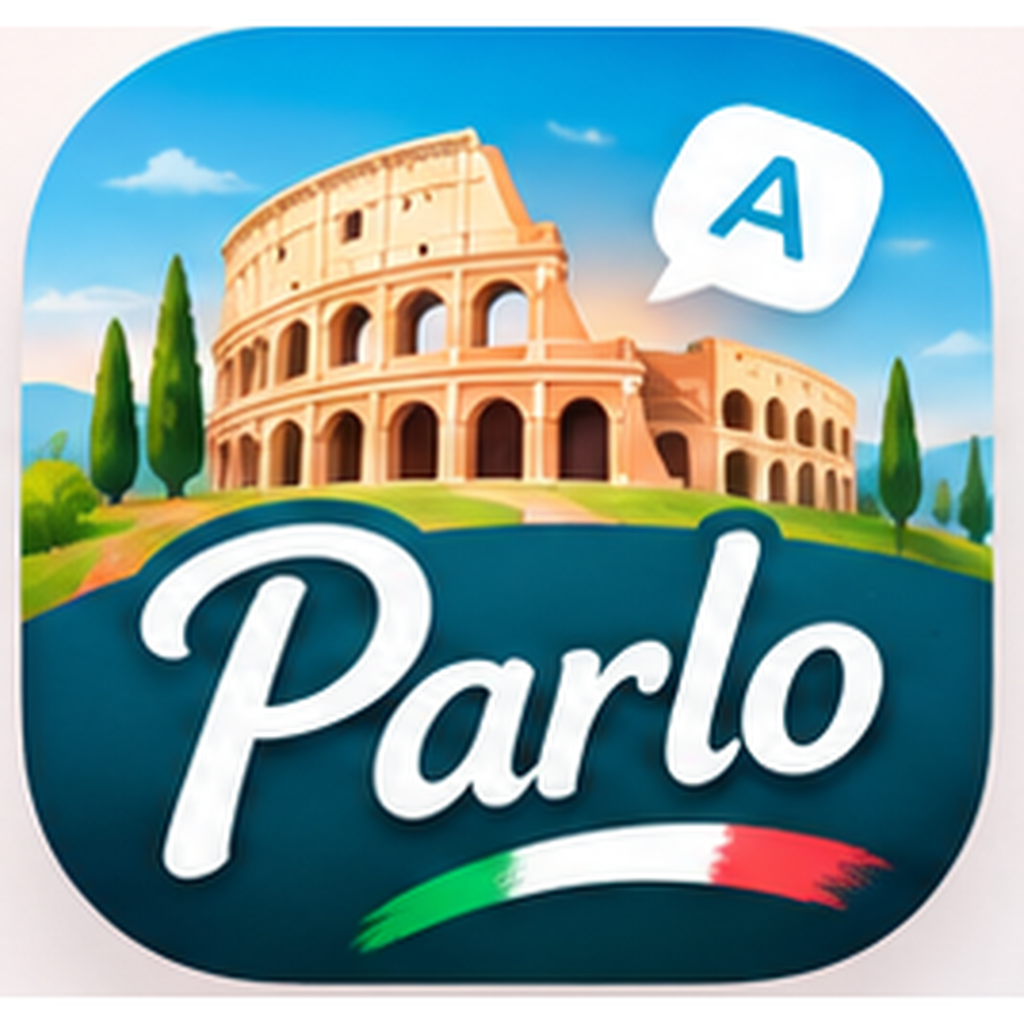
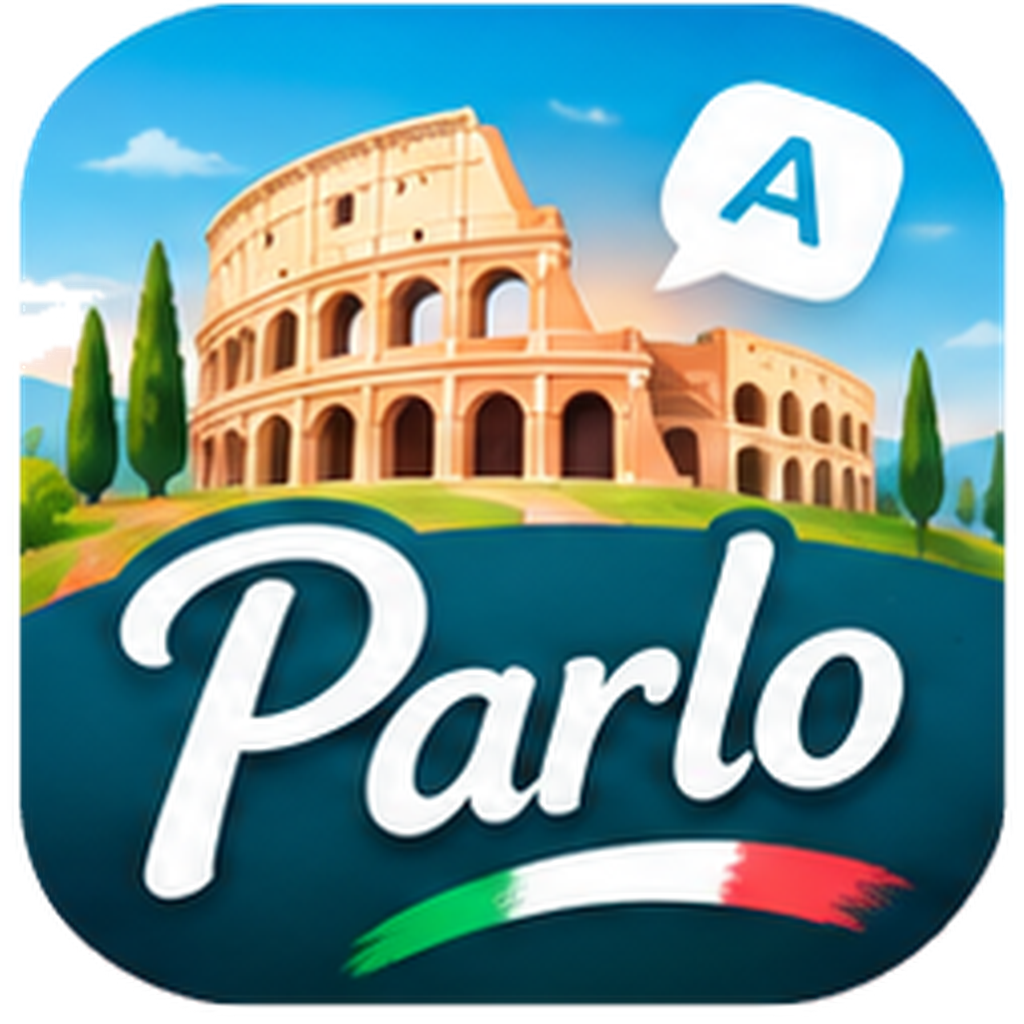
Add files via upload

diff --git a/index.html b/index.html
@@ -1,7 +1,7 @@
 <!DOCTYPE html>
 <html lang="en"><head><meta charset="utf-8">
 <meta name="viewport" content="width=device-width,initial-scale=1,viewport-fit=cover,user-scalable=no">
-<meta name="theme-color" content="#0B6B3A"><link rel="manifest" href="./manifest.webmanifest"><link rel="icon" type="image/png" href="./icons/icon-192.png"><link rel="apple-touch-icon" href="./icons/icon-192.png"><title>Parlo · Learn Italian</title>
+<meta name="theme-color" content="#0B6B3A"><link rel="icon" type="image/png" href="./icons/favicon.png"><link rel="apple-touch-icon" href="./icons/icon-192.png"><link rel="manifest" href="./manifest.webmanifest"><link rel="icon" type="image/png" href="./icons/icon-192.png"><link rel="apple-touch-icon" href="./icons/icon-192.png"><title>Parlo · Learn Italian</title>
 <style>
 :root{--bg:#FBF5EA;--bg2:#F1E7D3;--card:#fff;--ink:#241B14;--mut:#8C7C6A;--g:#0E8A4B;--gd:#096B3A;--gl:#e3f5ea;--r:#E4382F;--rd:#B82820;--y:#FFC83D;--yd:#D9A21B;--b:#3D8BFF;--line:#E9DCC3;--sh:0 0.375rem 0 rgba(36,27,20,.07),0 0.875rem 1.875rem rgba(36,27,20,.07);--hd1:#0B6B3A;--hd2:#18a35a}
 body.night{--bg:#14111C;--bg2:#1E1A2B;--card:#262136;--ink:#F6EFE3;--mut:#A79DB8;--line:#3A334F;--sh:0 0.375rem 0 rgba(0,0,0,.35);--gl:#1d3a2b}
@@ -5660,4 +5660,60 @@ parlo12Styles.textContent=`
 #top{min-width:0}#top>*{min-width:0}#top button{flex-shrink:0}
 @media(max-width:450px){#top>.chip:not(button){display:none!important}#top .logo{flex:none}#top .sp{flex:1;min-width:0}#top{gap:.35rem}}
 `;document.head.appendChild(parlo12Styles);
+
+
+/* Public 1.3 — compact search, restored streak, scoped audio feedback, card separation. */
+const p13Style=document.createElement('style');
+p13Style.textContent=`
+/* Keep the streak visible even on mobile; remove the old language flag from the header. */
+@media(max-width:450px){#top>.chip.p13-streak{display:inline-flex!important;align-items:center;gap:.15rem;padding:.27rem .35rem!important;font-size:.75rem!important}#top .logo{font-size:.92rem!important}#top .logo i{width:1.6rem!important;height:1.6rem!important}#top .p11-search-trigger{width:1.95rem;height:1.95rem}#top .chip.ib{padding:.25rem!important}}
+/* Search category labels must be centered and not clipped by inheritance. */
+.p11-search-filters{align-items:center;gap:.42rem;min-height:3.1rem;padding-top:.25rem!important;padding-bottom:.45rem!important;flex-shrink:0}
+.p11-search-filters button{box-sizing:border-box;display:inline-flex!important;align-items:center!important;justify-content:center!important;text-align:center!important;line-height:1.1!important;white-space:nowrap;min-height:2rem;padding:.42rem .82rem!important;font-size:.75rem!important;font-weight:800!important;flex:0 0 auto!important;vertical-align:middle}
+.p11-search-field input:focus-visible{outline:0!important;box-shadow:none!important}
+.p11-search-field:focus-within{box-shadow:0 0 0 3px color-mix(in srgb,var(--g) 17%,transparent)}
+.p11-results-head{align-items:center;gap:.65rem;min-width:0}.p11-results-head>*{min-width:0}
+/* The hero shadow should fall behind other cards instead of over them. */
+#main .view>.hero{isolation:isolate;z-index:0;margin-bottom:1.15rem!important}
+#main .view>.hero~.p221-quick,#main .view>.hero~.pl-shortcuts,#main .view>.hero~.pl-tools,#main .view>.hero~.card,#main .view>.hero~.mg{position:relative;z-index:1}
+#main .view>.hero + .pl-shortcuts,#main .view>.hero + .pl-tools,#main .view>.hero + .p221-quick{margin-top:.6rem!important}
+/* Grammar Guides: only the selected speaker icon moves, never its full example card. */
+#main .view .card .opt.p13-grammar-audio{animation:none!important;transform:none!important;transition:background-color .15s,border-color .15s!important}
+#main .view .card .opt.p13-grammar-audio svg.p13-audio-playing{animation:p13-speaker-pop .65s ease-in-out 1!important;color:var(--g);transform-origin:center}
+@keyframes p13-speaker-pop{0%,100%{transform:scale(1)}45%{transform:scale(1.22)}}
+@media(prefers-reduced-motion:reduce){#main .view .card .opt.p13-grammar-audio svg.p13-audio-playing{animation:none!important}}
+`;document.head.appendChild(p13Style);
+// The prior layout intentionally hid all non-button chips on phones. Reintroduce just the streak.
+const p13Topbar=topbar;
+topbar=function(){p13Topbar.apply(this,arguments);const t=document.getElementById('top');if(!t)return;
+  const language=t.querySelector('button[onclick="langSheet()"]');if(language)language.remove();
+  const flame=[...t.querySelectorAll('.chip')].find(el=>!el.matches('button')&&!!el.querySelector('svg'));
+  if(flame)flame.classList.add('p13-streak');
+};
+// Language selection belongs to Me, not the crowded header.
+const p13MeGroups=meGroups;
+meGroups=function(){p13MeGroups.apply(this,arguments);const root=document.querySelector('#main .mg');if(!root||root.querySelector('.p13-language'))return;
+  const group=document.createElement('div');group.className='p13-language';
+  const btn=document.createElement('button');btn.className='r';btn.setAttribute('aria-label','I want to learn');
+  btn.innerHTML=`<span class="ib">${ic('languages',21)}</span><span class="t">I want to learn</span><span class="chv">${ic('chevron-right',20)}</span>`;
+  btn.onclick=langSheet;group.append(btn);root.append(group);
+};
+// The Path already has learning actions elsewhere, and Me has the three shortcut actions.
+const p13Path=vPath;
+vPath=function(){p13Path.apply(this,arguments);const v=document.querySelector('#main .view');v?.querySelectorAll(':scope > .p221-quick').forEach(el=>el.remove())};
+// Fix the audio status scope for every Grammar Guide's example button.
+const p13Listen=parlo12Listen;
+parlo12Listen=function(button,text){
+  if(button?.classList?.contains('opt')&&button.closest('#main .view .card')){
+    document.querySelectorAll('.p13-audio-playing').forEach(el=>el.classList.remove('p13-audio-playing'));
+    button.classList.add('p13-grammar-audio');
+    const icon=button.querySelector('svg');if(icon){icon.classList.remove('p13-audio-playing');void icon.getBoundingClientRect();icon.classList.add('p13-audio-playing');
+      if(window.p13AudioTimer)clearTimeout(window.p13AudioTimer);
+      window.p13AudioTimer=setTimeout(()=>{if(icon.isConnected)icon.classList.remove('p13-audio-playing')},850);
+    }
+    try{speak(text)}catch(error){console.warn('Parlo audio:',error);if(typeof toast==='function')toast('Audio unavailable','alert-triangle')}
+    return;
+  }
+  return p13Listen(button,text);
+};
 </script></body></html>

diff --git a/sw.js b/sw.js
@@ -1,6 +1,6 @@
 /* Parlo offline installation: atomic install, no forced update of active sessions. */
-const CACHE = 'parlo-public-1-shell-3';
-const ASSETS = ['./','./index.html','./manifest.webmanifest','./data.json','./icons/icon-192.png','./icons/icon-512.png','./icons/icon-1024.png'];
+const CACHE = 'parlo-public-1-shell-4';
+const ASSETS = ['./','./index.html','./manifest.webmanifest','./data.json','./icons/icon-192.png','./icons/icon-512.png','./icons/icon-1024.png','./icons/favicon.png'];
 self.addEventListener('install', event => event.waitUntil((async () => {
   const next = await caches.open(CACHE);
   // Installation fails without a complete shell; an existing active worker remains in place.

diff --git a/README.md b/README.md
@@ -66,3 +66,11 @@ For installation, open the hosted HTTPS URL, then accept the install prompt wher
 - Text scale: S 14px, M 16.5px, L 18px, XL 19px.
 - Word Pack listen buttons play the selected Italian word.
 - Grammar Guides animate only the tapped audio example.
+
+
+## Public 1.3 changes
+- Shows the streak in the mobile header; the language selector is now under Me.
+- Search category chips are centered and input focus styling is cleaner.
+- Grammar guide listening animates only the tapped speaker icon.
+- Removed duplicate Home learning shortcut trio; adjusted spacing in Me and Speak.
+- Icon now uses a transparent PNG outside its rounded artwork.
